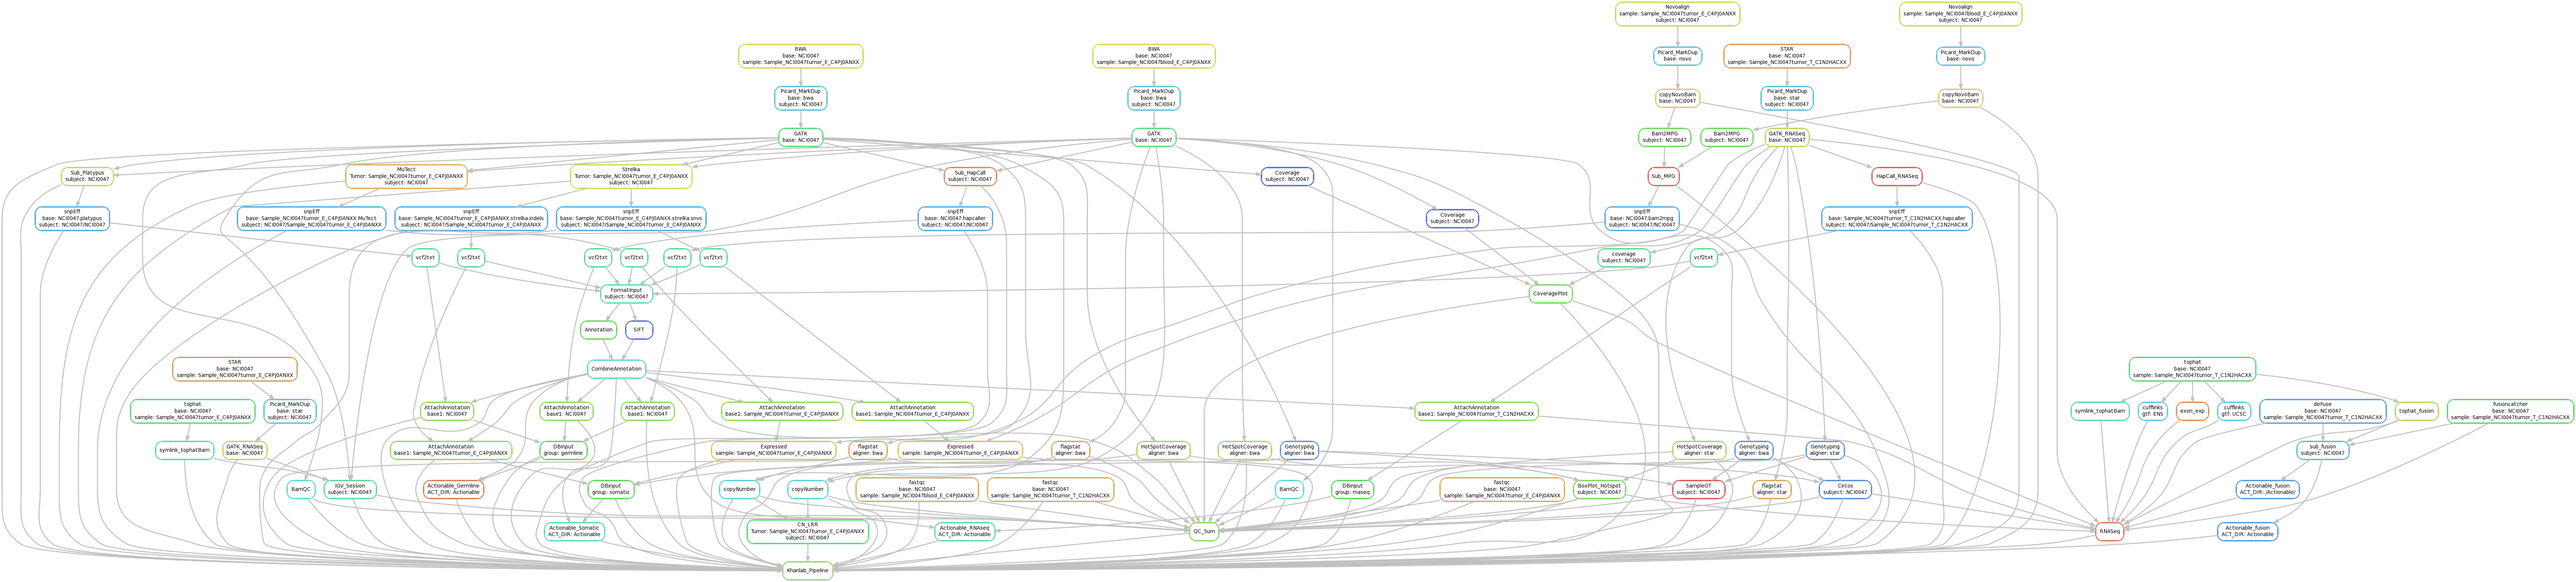
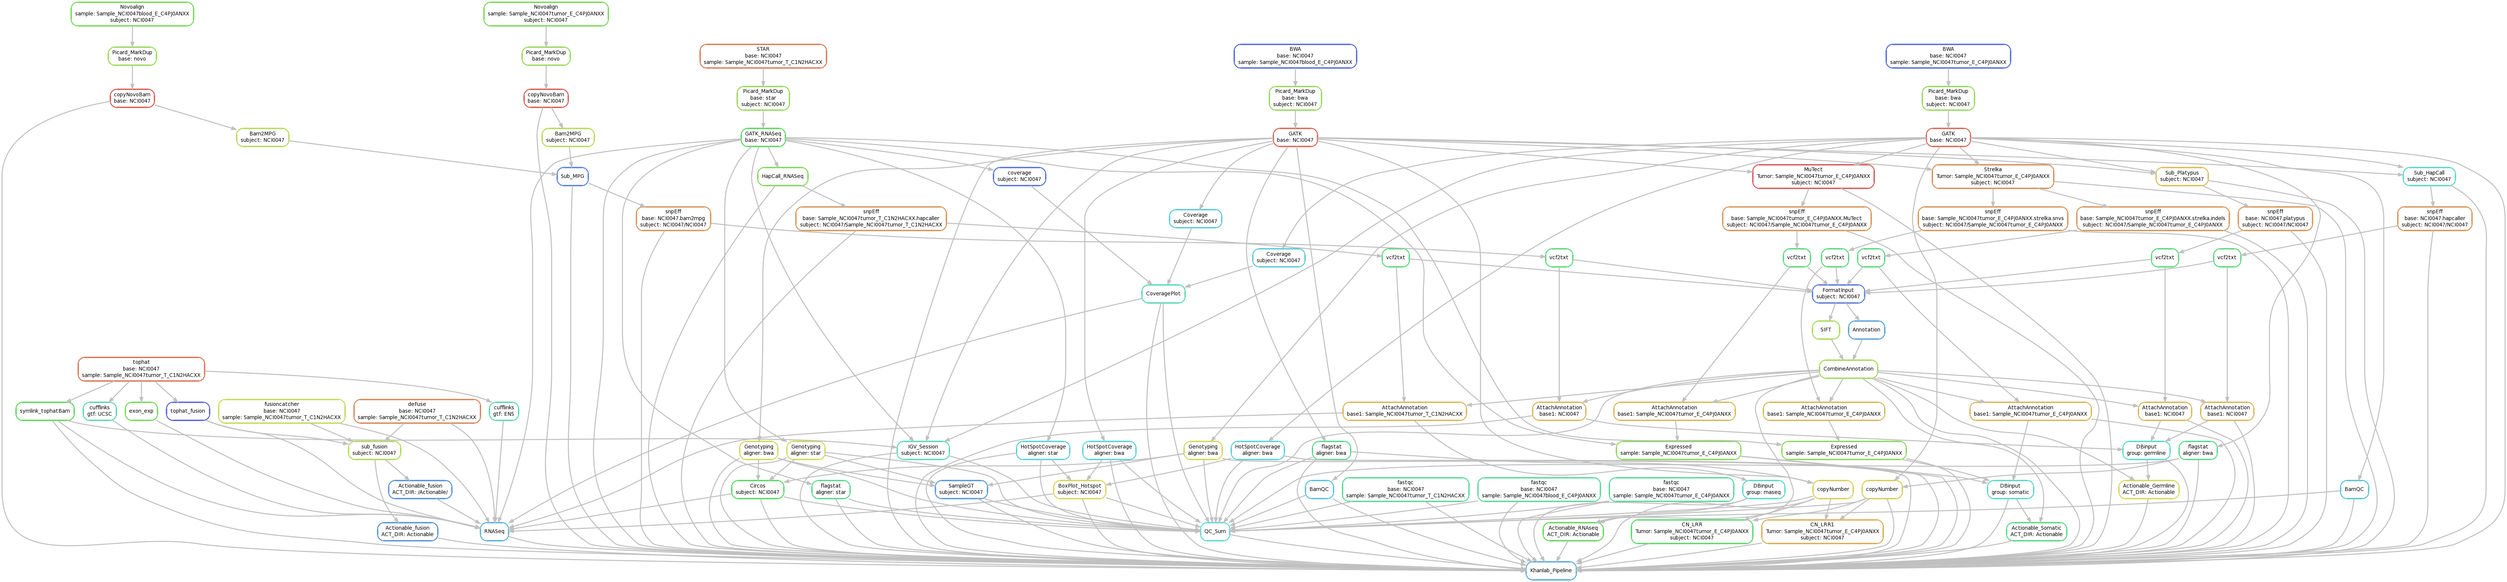
Reflect new commits in figures and README

diff --git a/README.md b/README.md
@@ -20,6 +20,10 @@ git clone https://github.com/patidarr/ngs_pipeline.git
 - Haplotype Caller, Platupys, Bam2MPG, MuTect, Strelka
 - snpEff, Annovar, SIFT, pph2, Custom Annotation
 - Coverage Plot, Circos Plot, Hotspot Coverage Box Plot
+- Create input format for oncogenomics database (Patient Level)
+- Make Actionable Classification for Germline and Somatic Mutations 
+- Copy number based on the simple T/N LogRatio (N cov >=30), Corrected for Total # Reads
+- LRR adjusted to center. 
 
 ### RNASeq:
 - QC
@@ -27,9 +31,17 @@ git clone https://github.com/patidarr/ngs_pipeline.git
 - Broad Standard Practices on STAR bam
 - fusion-catcher, tophat-fusion, deFuse
 - Cufflinks (ENS and UCSC)
+- In-house Exon Expression (ENS and UCSC)
 - Haplotype Caller
 - snpEff, Annovar, SIFT, pph2, Custom Annotation
+- Actionable Fusion classification
 
+### Patient:
+- Genotyping On Patient. 
+	1000g sites are evaluated for every library and then compared (all vs all)
+	If two libraries come from a patient the match shuld be pretty good >80%
+- Still to develop:
+	If the match is below a certain threshold, break the pipeline for patient.
 
 Rulegraph
 
